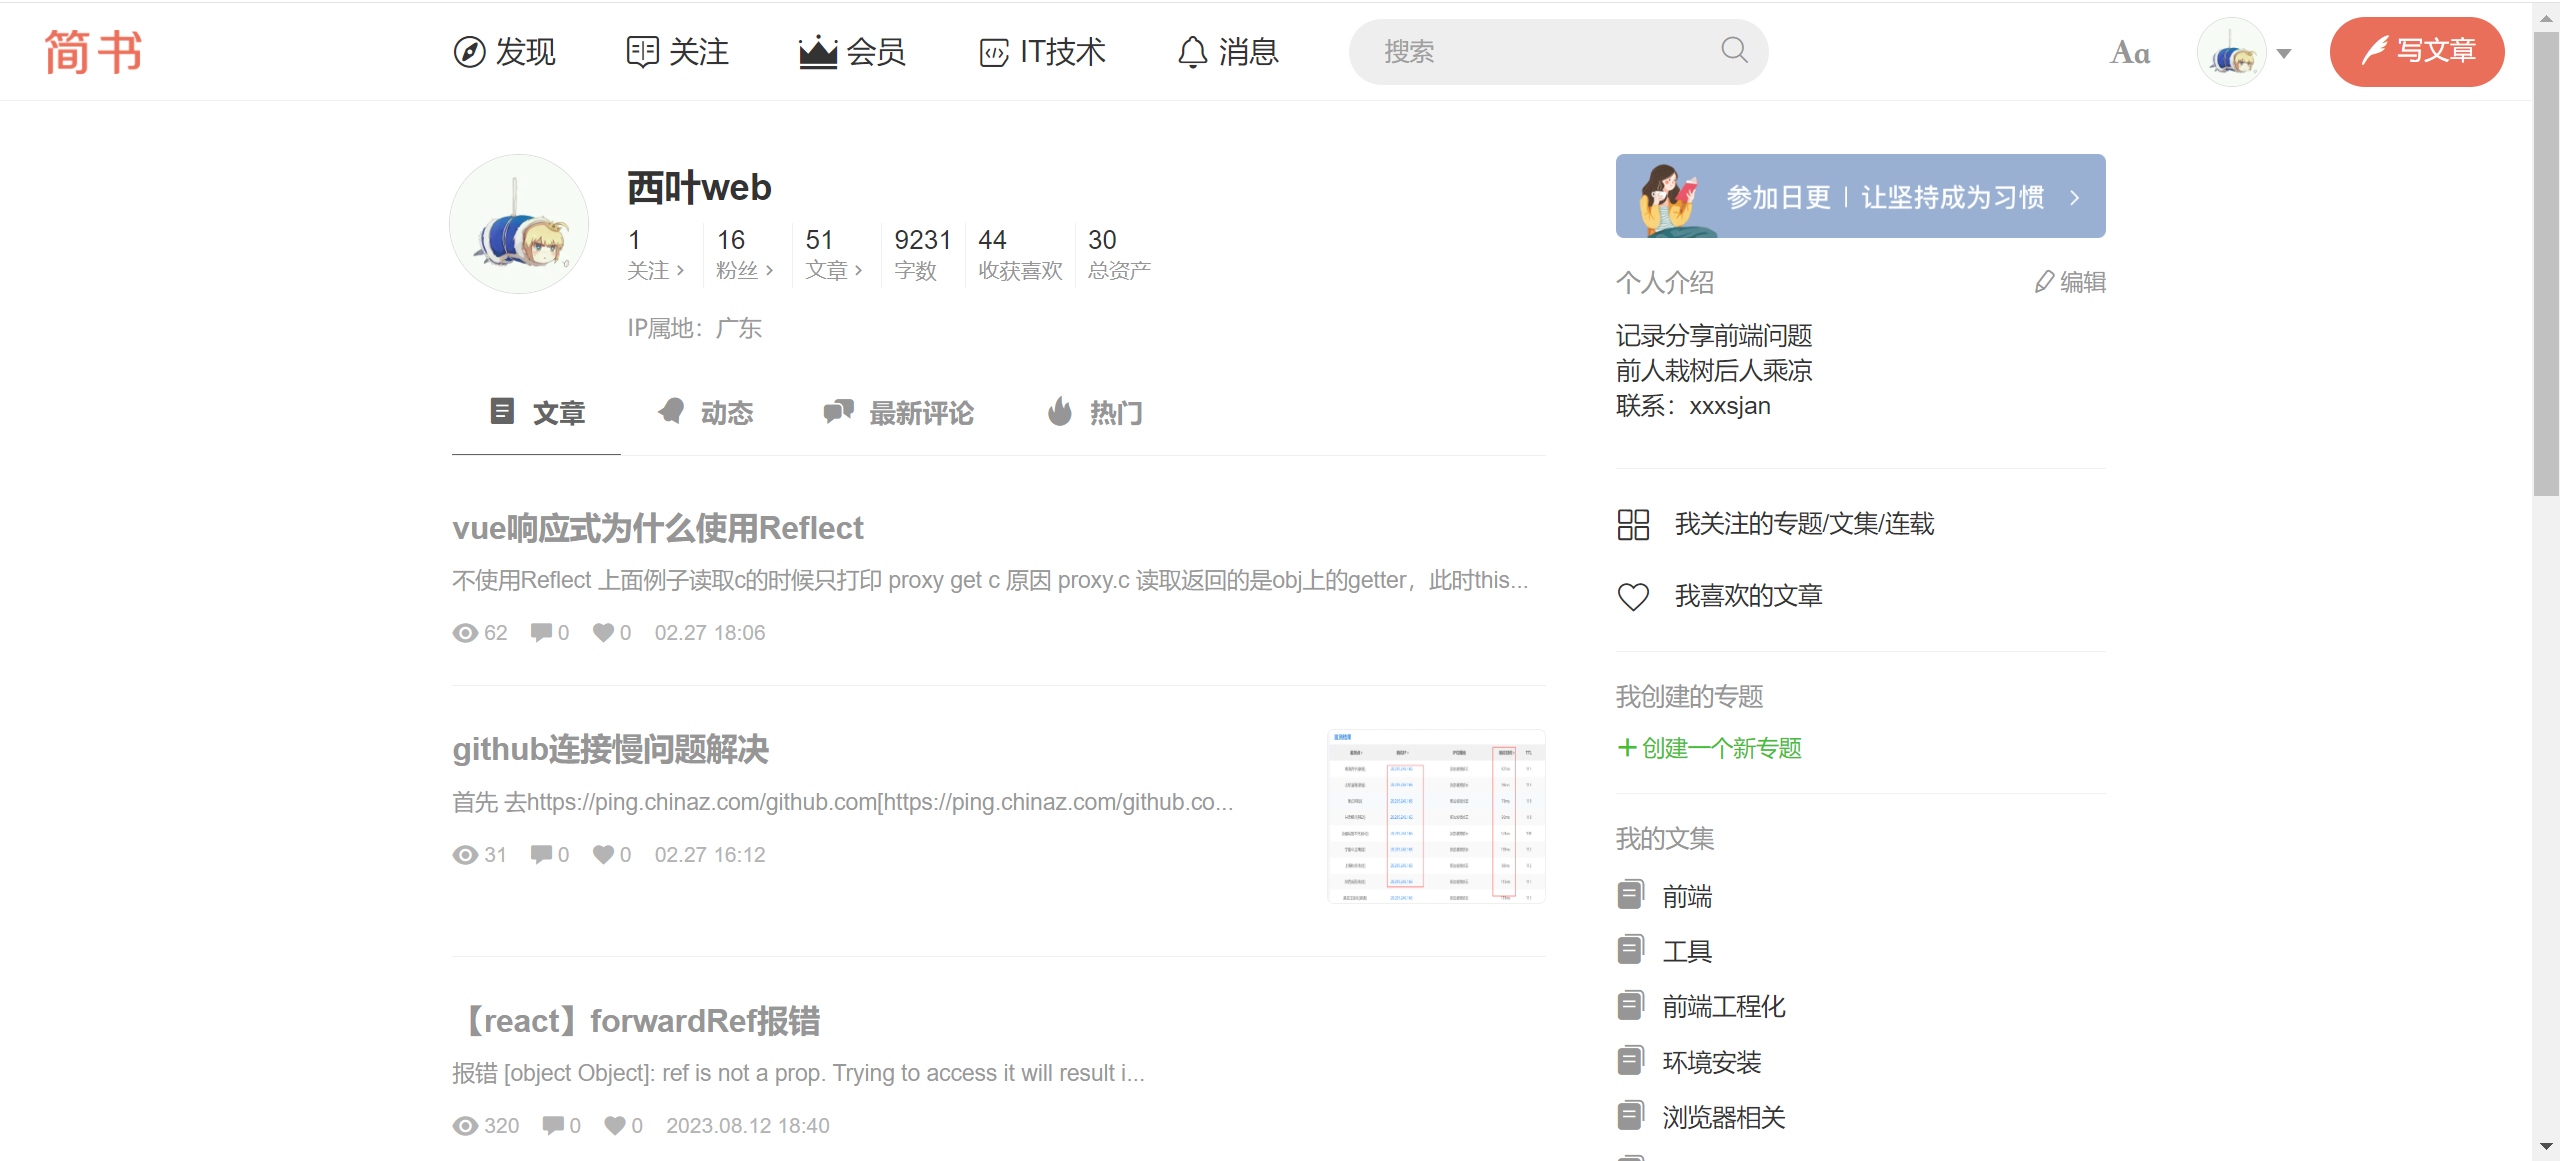
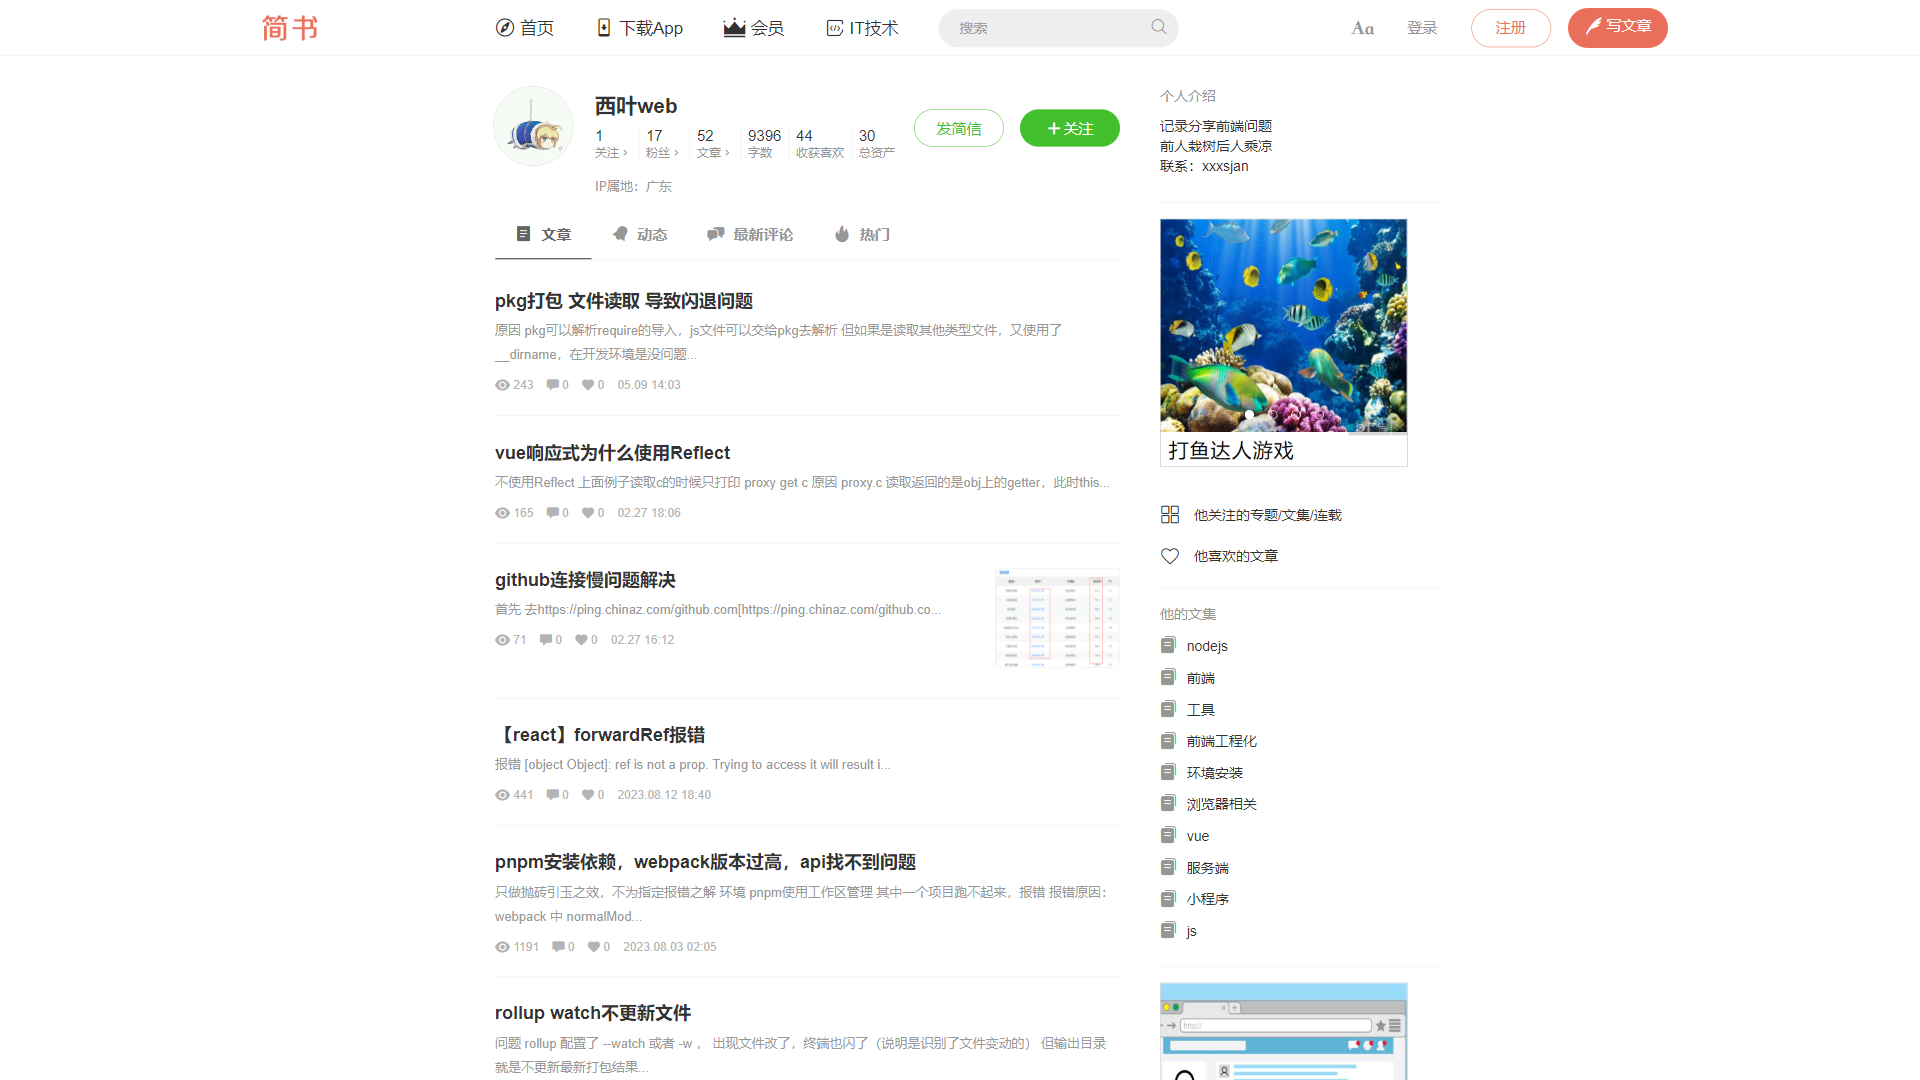
feat(public): 修改截图脚本

diff --git a/scripts/get-site-screenshot.js b/scripts/get-site-screenshot.js
@@ -7,11 +7,15 @@ run();
 
 async function run() {
   const { page, browser } = await createPage();
-  // https://blog.dolam.fun
-  // https://web-tool.dolam.fun
-  await page.goto("https://web-tool.dolam.fun/");
 
-  const filename = path.join(__dirname, "../public", "web-tool.png");
+  const arr = [
+    "https://www.jianshu.com/u/2b406a3be47b",
+    "https://blog.dolam.fun",
+    "https://web-tool.dolam.fun",
+  ];
+  await page.goto(arr[0]);
+
+  const filename = path.join(__dirname, "../public", "jianshu.png");
 
   await page.screenshot({ path: filename });
 
@@ -21,7 +25,7 @@ async function run() {
 }
 async function createPage() {
   const browser = await puppeteer.launch({
-    headless: true,
+    headless: false,
     executablePath:
       "C:\\Program Files\\Google\\Chrome\\Application\\chrome.exe",
   });
